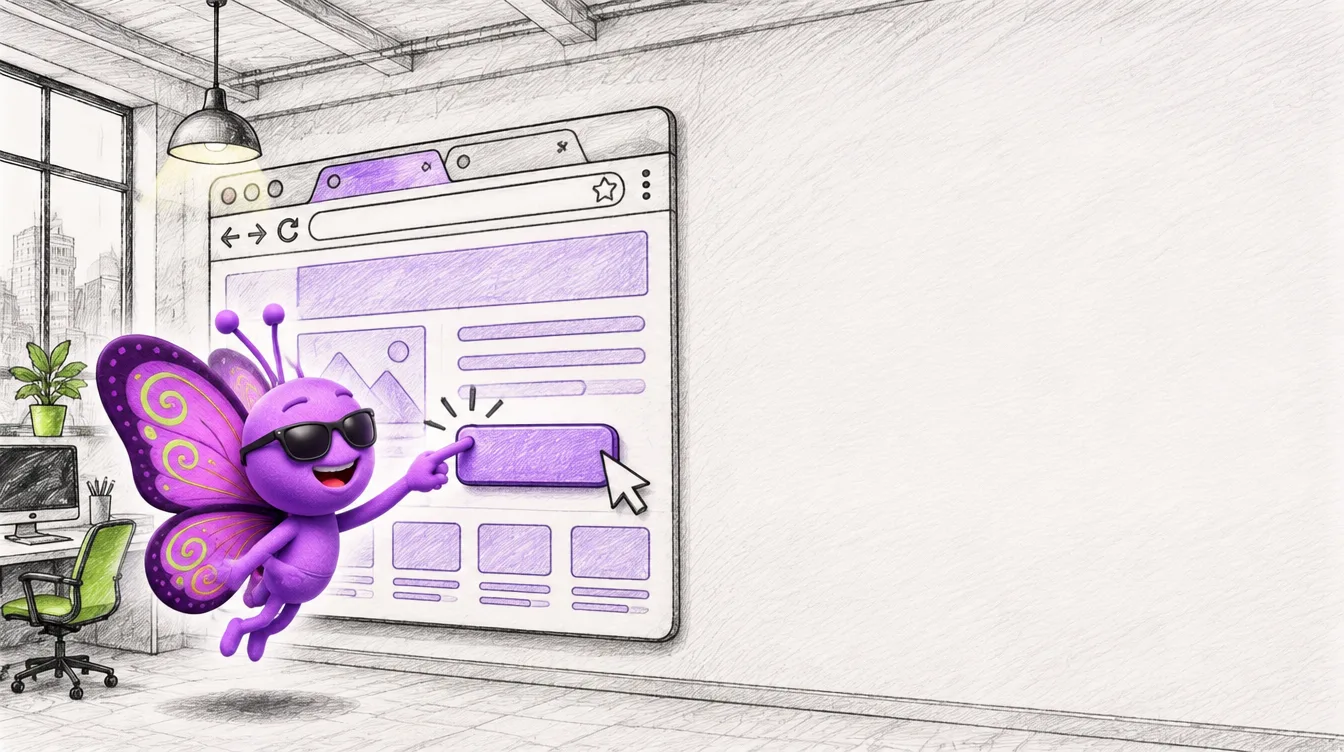
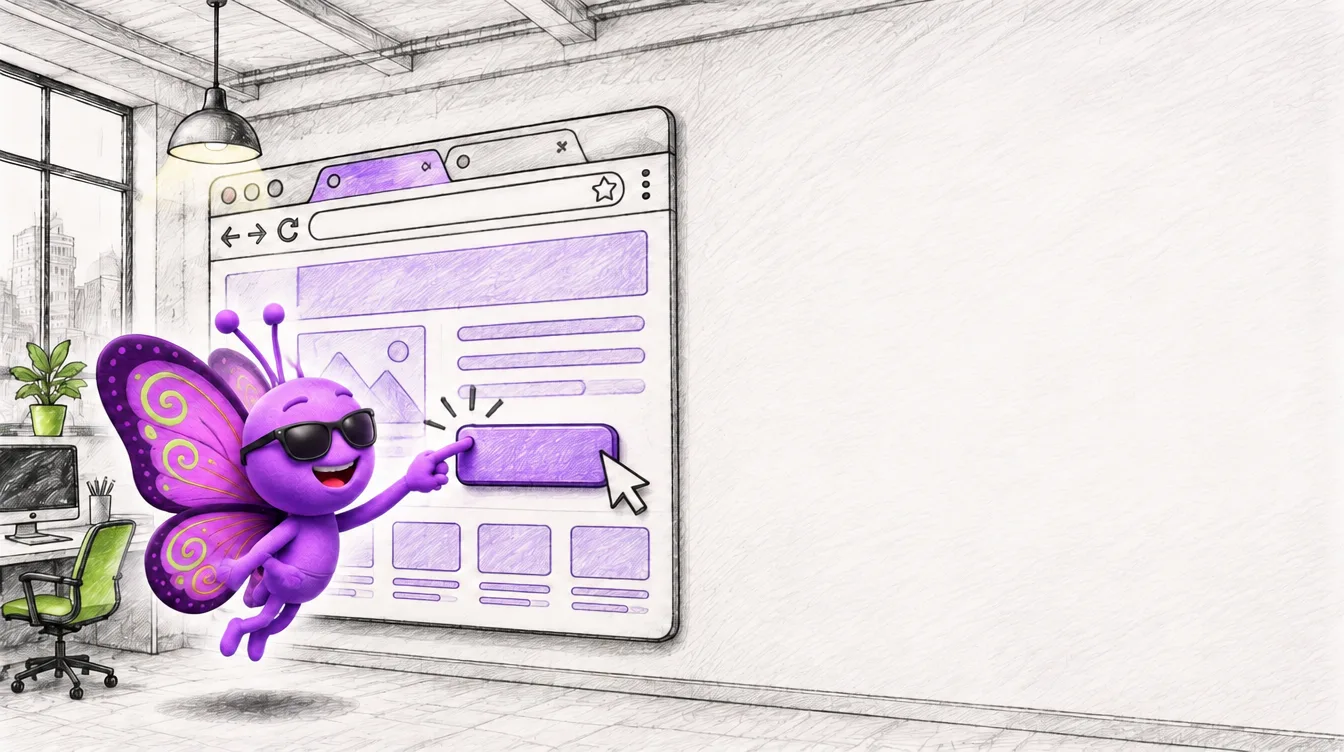
Deck: natural hand on the Chrome scene, line break in the warning, no extra wrap on the why slide
Claude-Session: https://claude.ai/code/session_01HEA22UVS5xZUuQKi5xcL6B

diff --git a/slides/session-1/index.html b/slides/session-1/index.html
@@ -285,7 +285,7 @@
       <li>מחקר, טפסים, משימות חוזרות במערכת</li>
       <li>מקליטים workflow ומריצים שוב, או מתזמנים</li>
     </ul>
-    <div class="card warn"><h3>שימו לב</h3><p>רק בכרום ורק בתוכניות בתשלום. אתר יכול להסתיר הוראות זדוניות, ו"הסיכון אינו אפס". לא לחשבונות כספיים, משפטיים, רפואיים או רגישים. עדיף פרופיל דפדפן נפרד.</p></div>
+    <div class="card warn"><h3>שימו לב</h3><p>רק בכרום ורק בתוכניות בתשלום. אתר יכול להסתיר הוראות זדוניות, ו"הסיכון אינו אפס".<br>לא לחשבונות כספיים, משפטיים, רפואיים או רגישים. עדיף פרופיל דפדפן נפרד.</p></div>
   </div>
   <p class="src">מקורות: support.claude.com/en/articles/12012173, 12902428</p>
 </section>

diff --git a/slides/session-1/deck.css b/slides/session-1/deck.css
@@ -379,3 +379,4 @@ p, li, .card, .stop span, .sign p { text-wrap: pretty; }
 .split > span.w:not(.ul) { white-space: nowrap; }
 .floor-shadow { position: absolute; z-index: 0; height: 34px; border-radius: 50%; background: radial-gradient(closest-side, rgb(0 0 0 / .28), transparent); }
 .on-scene .big { max-width: none; }
+.slide .mid { max-width: none; }
